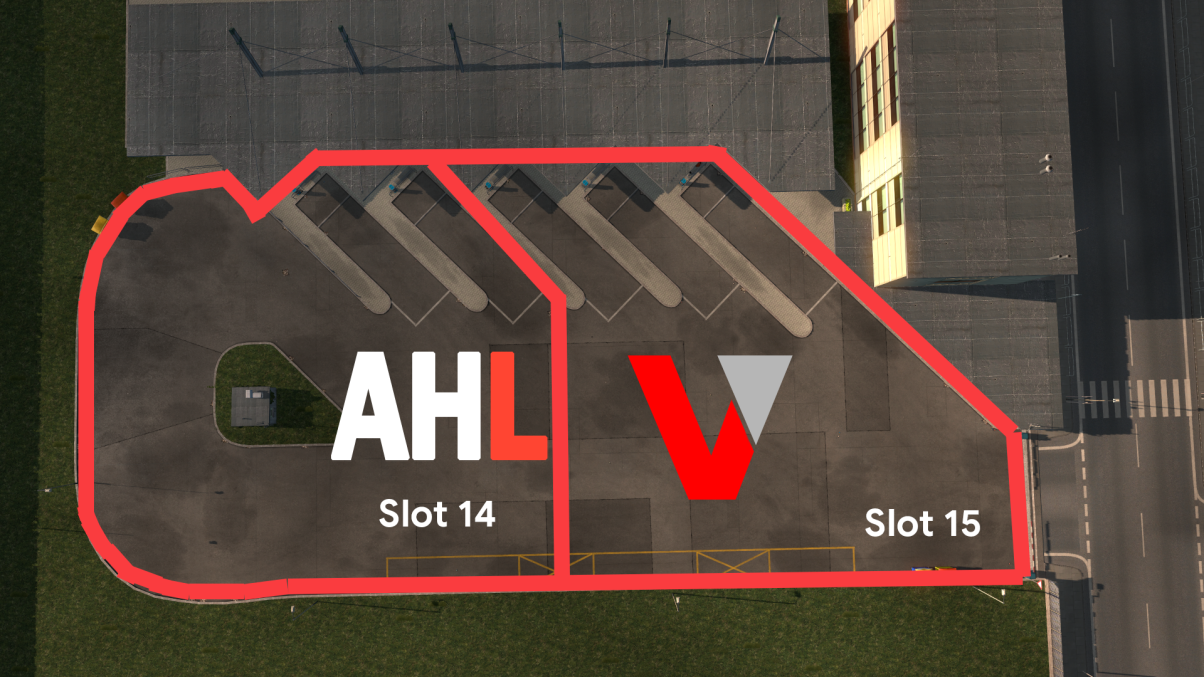
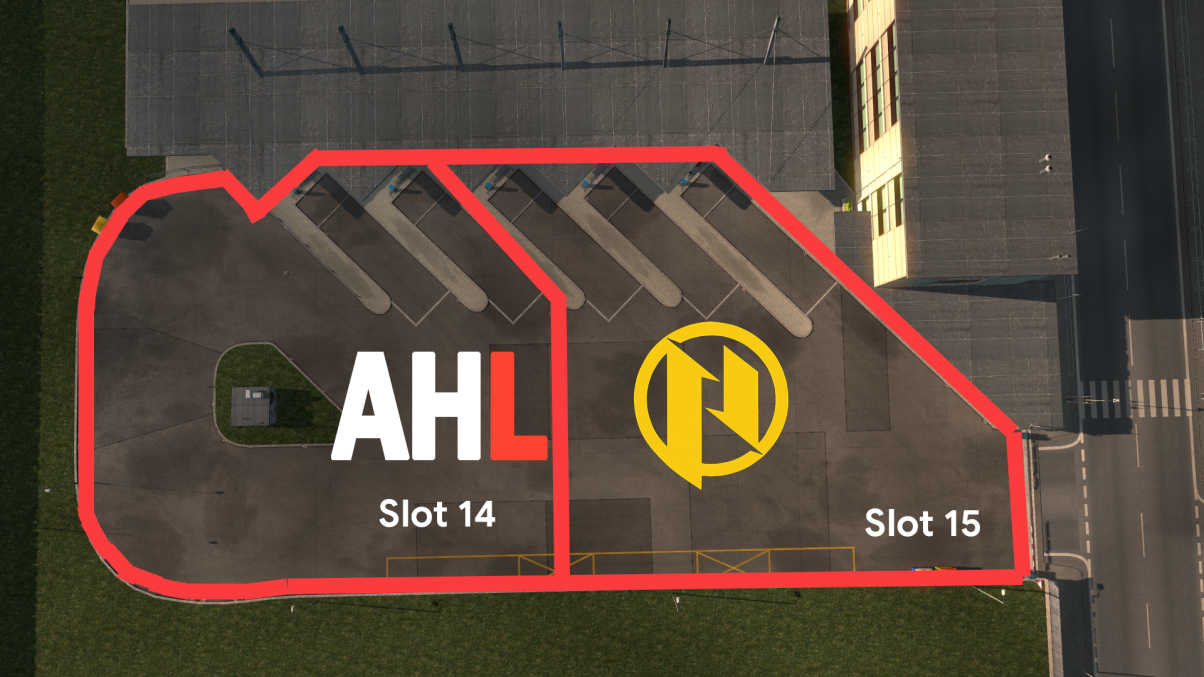
Truckfest Page update

Changed region(s): [[0.5224, 0.4653, 0.6761, 0.7445]]

diff --git a/truckfest.php b/truckfest.php
@@ -16,10 +16,10 @@
                         End Time - 1pm BST<br>
                         Location - Frankfurt, City<br></p>
                         <h3 style="text-align: center;">Truckfest Awards/Prizes</h3>
-                        <p> Best VTC Turnout - TBD<br>
-                        Best VTC Formation - TBD<br>
-                        Best VTC Livery - TBD<br>
-                        Best Public Truck - TBD
+                        <p> Best VTC Turnout - Vive La France!<br>
+                        Best VTC Formation - Actros Tuning Pack<br>
+                        Best VTC Livery - Mighty Griffin Tuning Pack<br>
+                        Best Public Truck - Volvo (FH) Tuning Pack
                         </p>
                     <div style="text-align: center; padding-bottom: 30px;">
                     <a href="#" class="button2" >Slots are Full</a>
@@ -116,7 +116,7 @@
                 </div>
                 <div class="col">
                 <br>Slot 10<br>
-                LKW Transport
+                ProjectCargo 
                 </div>
                 <div class="col">
                 <br>Slot 11<br>
@@ -124,7 +124,7 @@
                 </div>
                 <div class="col">
                 <br>Slot 12<br>
-                Pries Logistics
+                Snail Transport
                 </div>
             </div>
         </div>
@@ -142,7 +142,7 @@
                 </div>
                 <div class="col">
                 <br>Slot 15<br>
-                Valtox Logistics
+                Pries Logistics
                 </div>
                 <div class="col">
                 <br>Slot 16<br>
